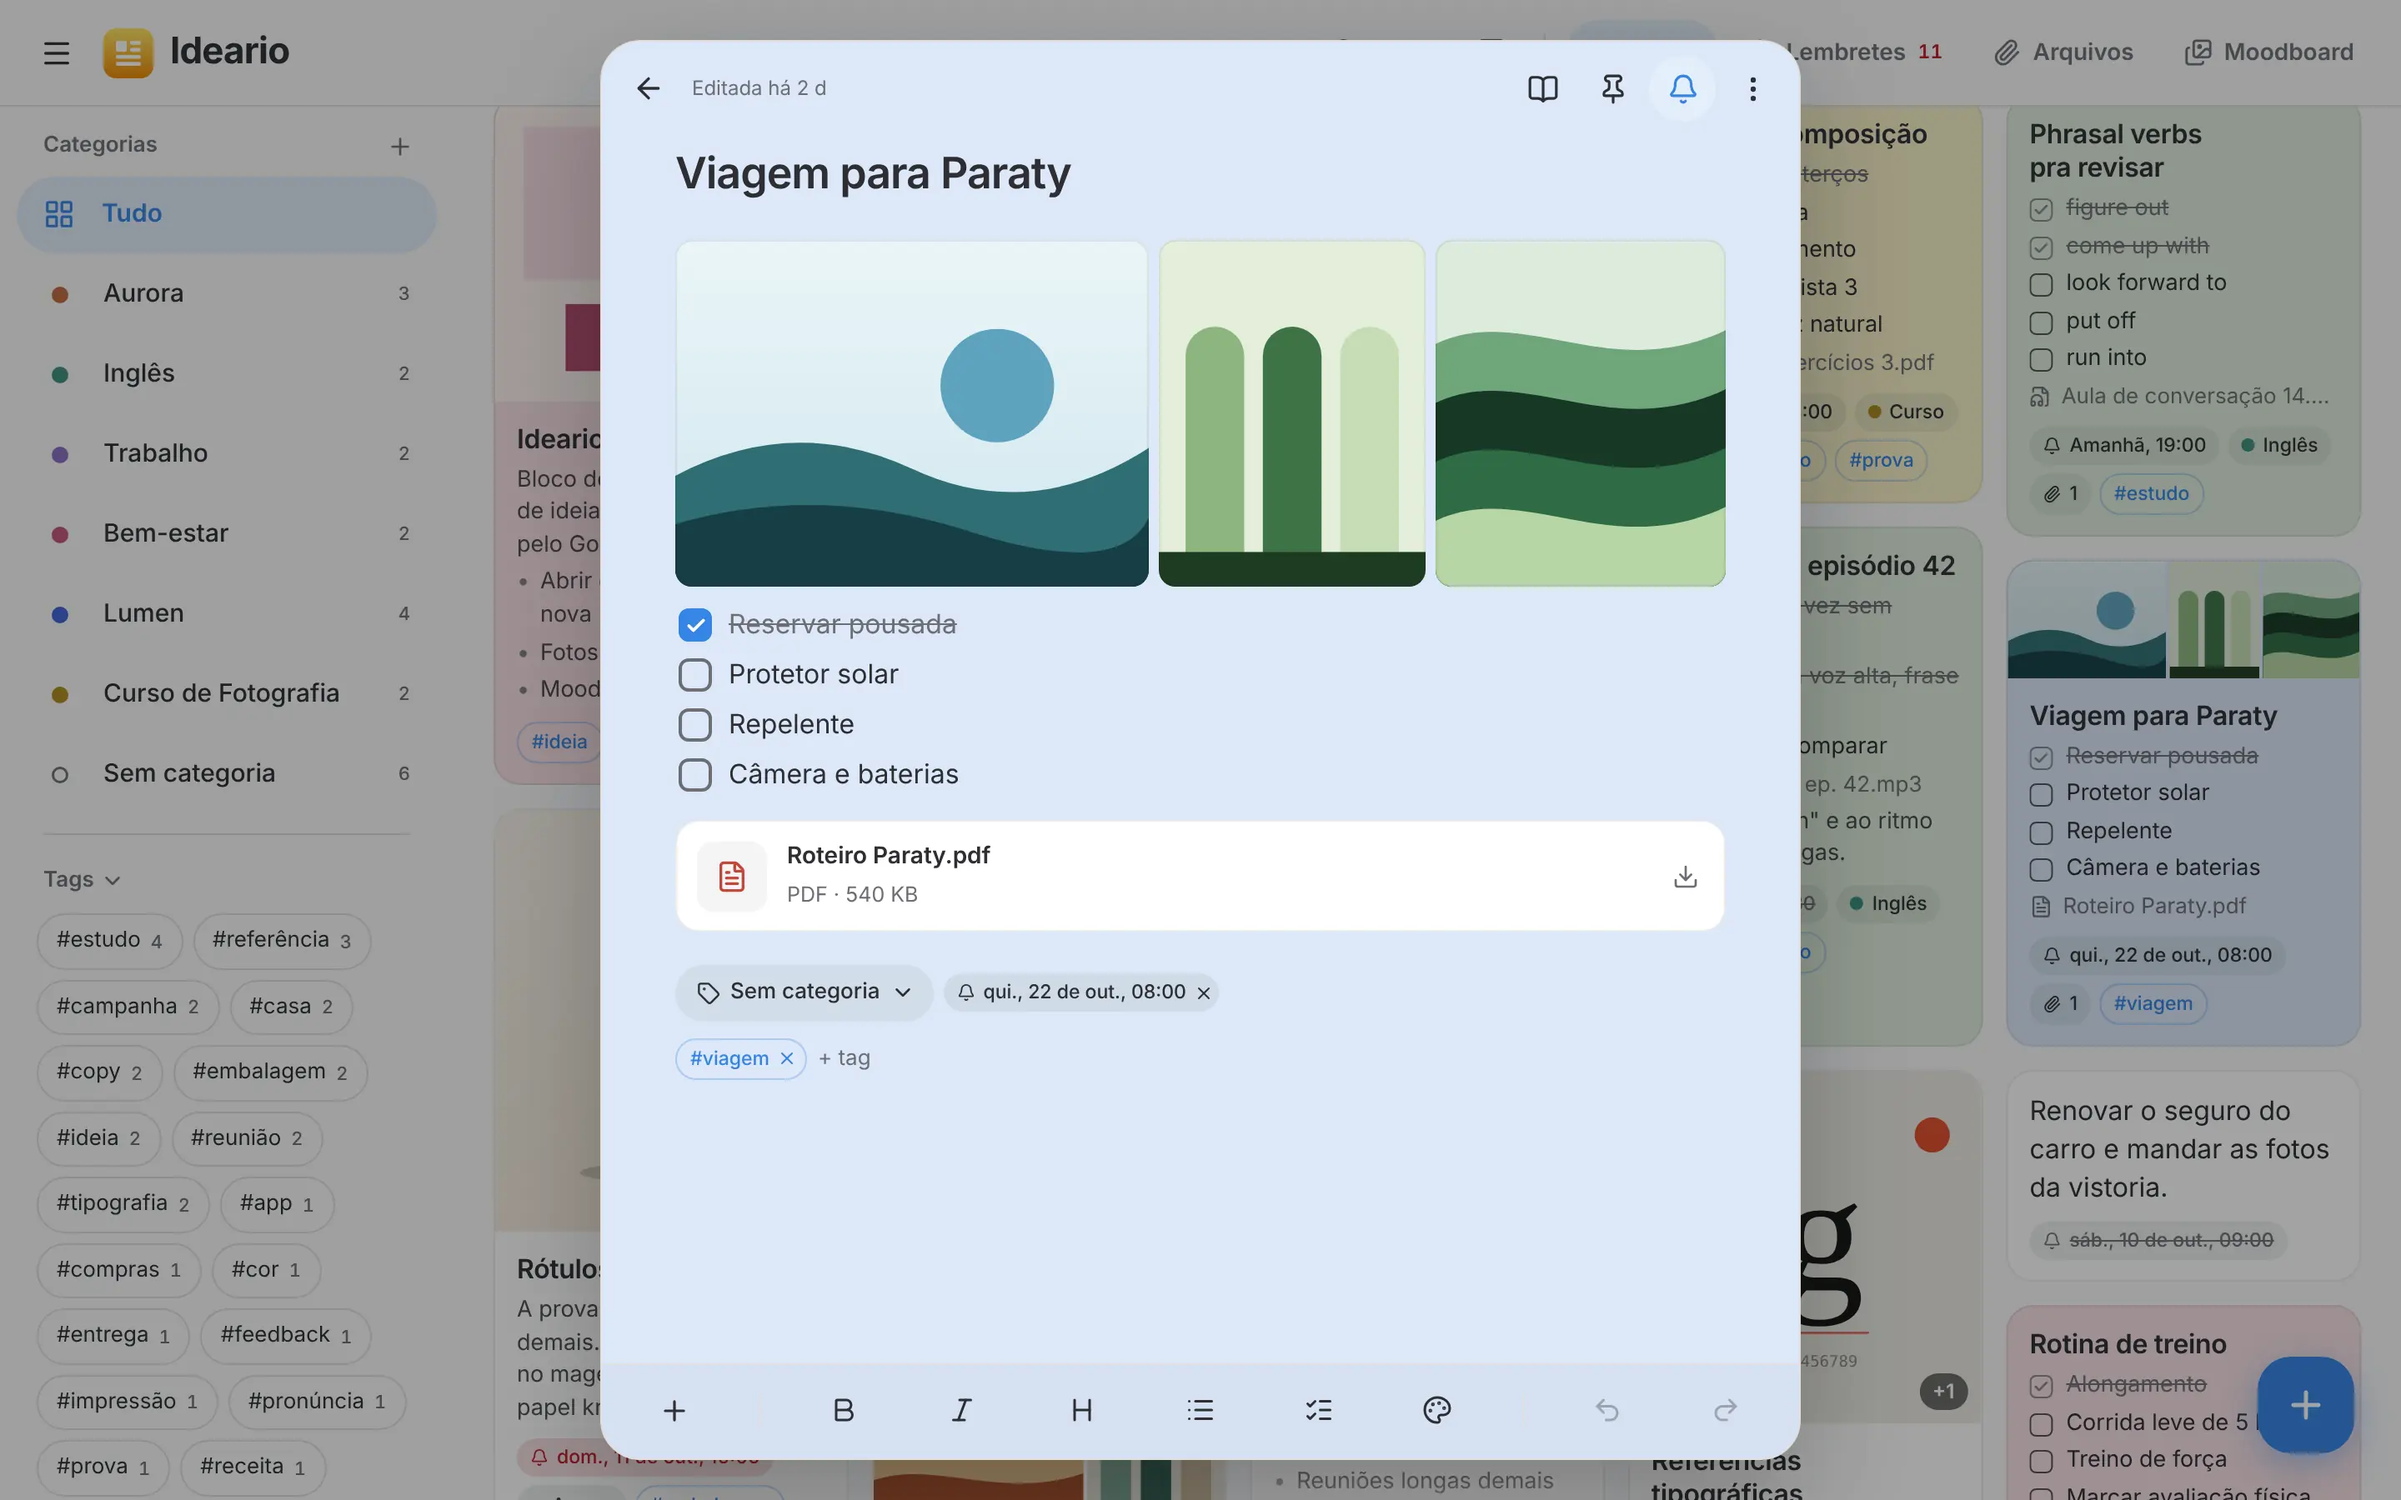
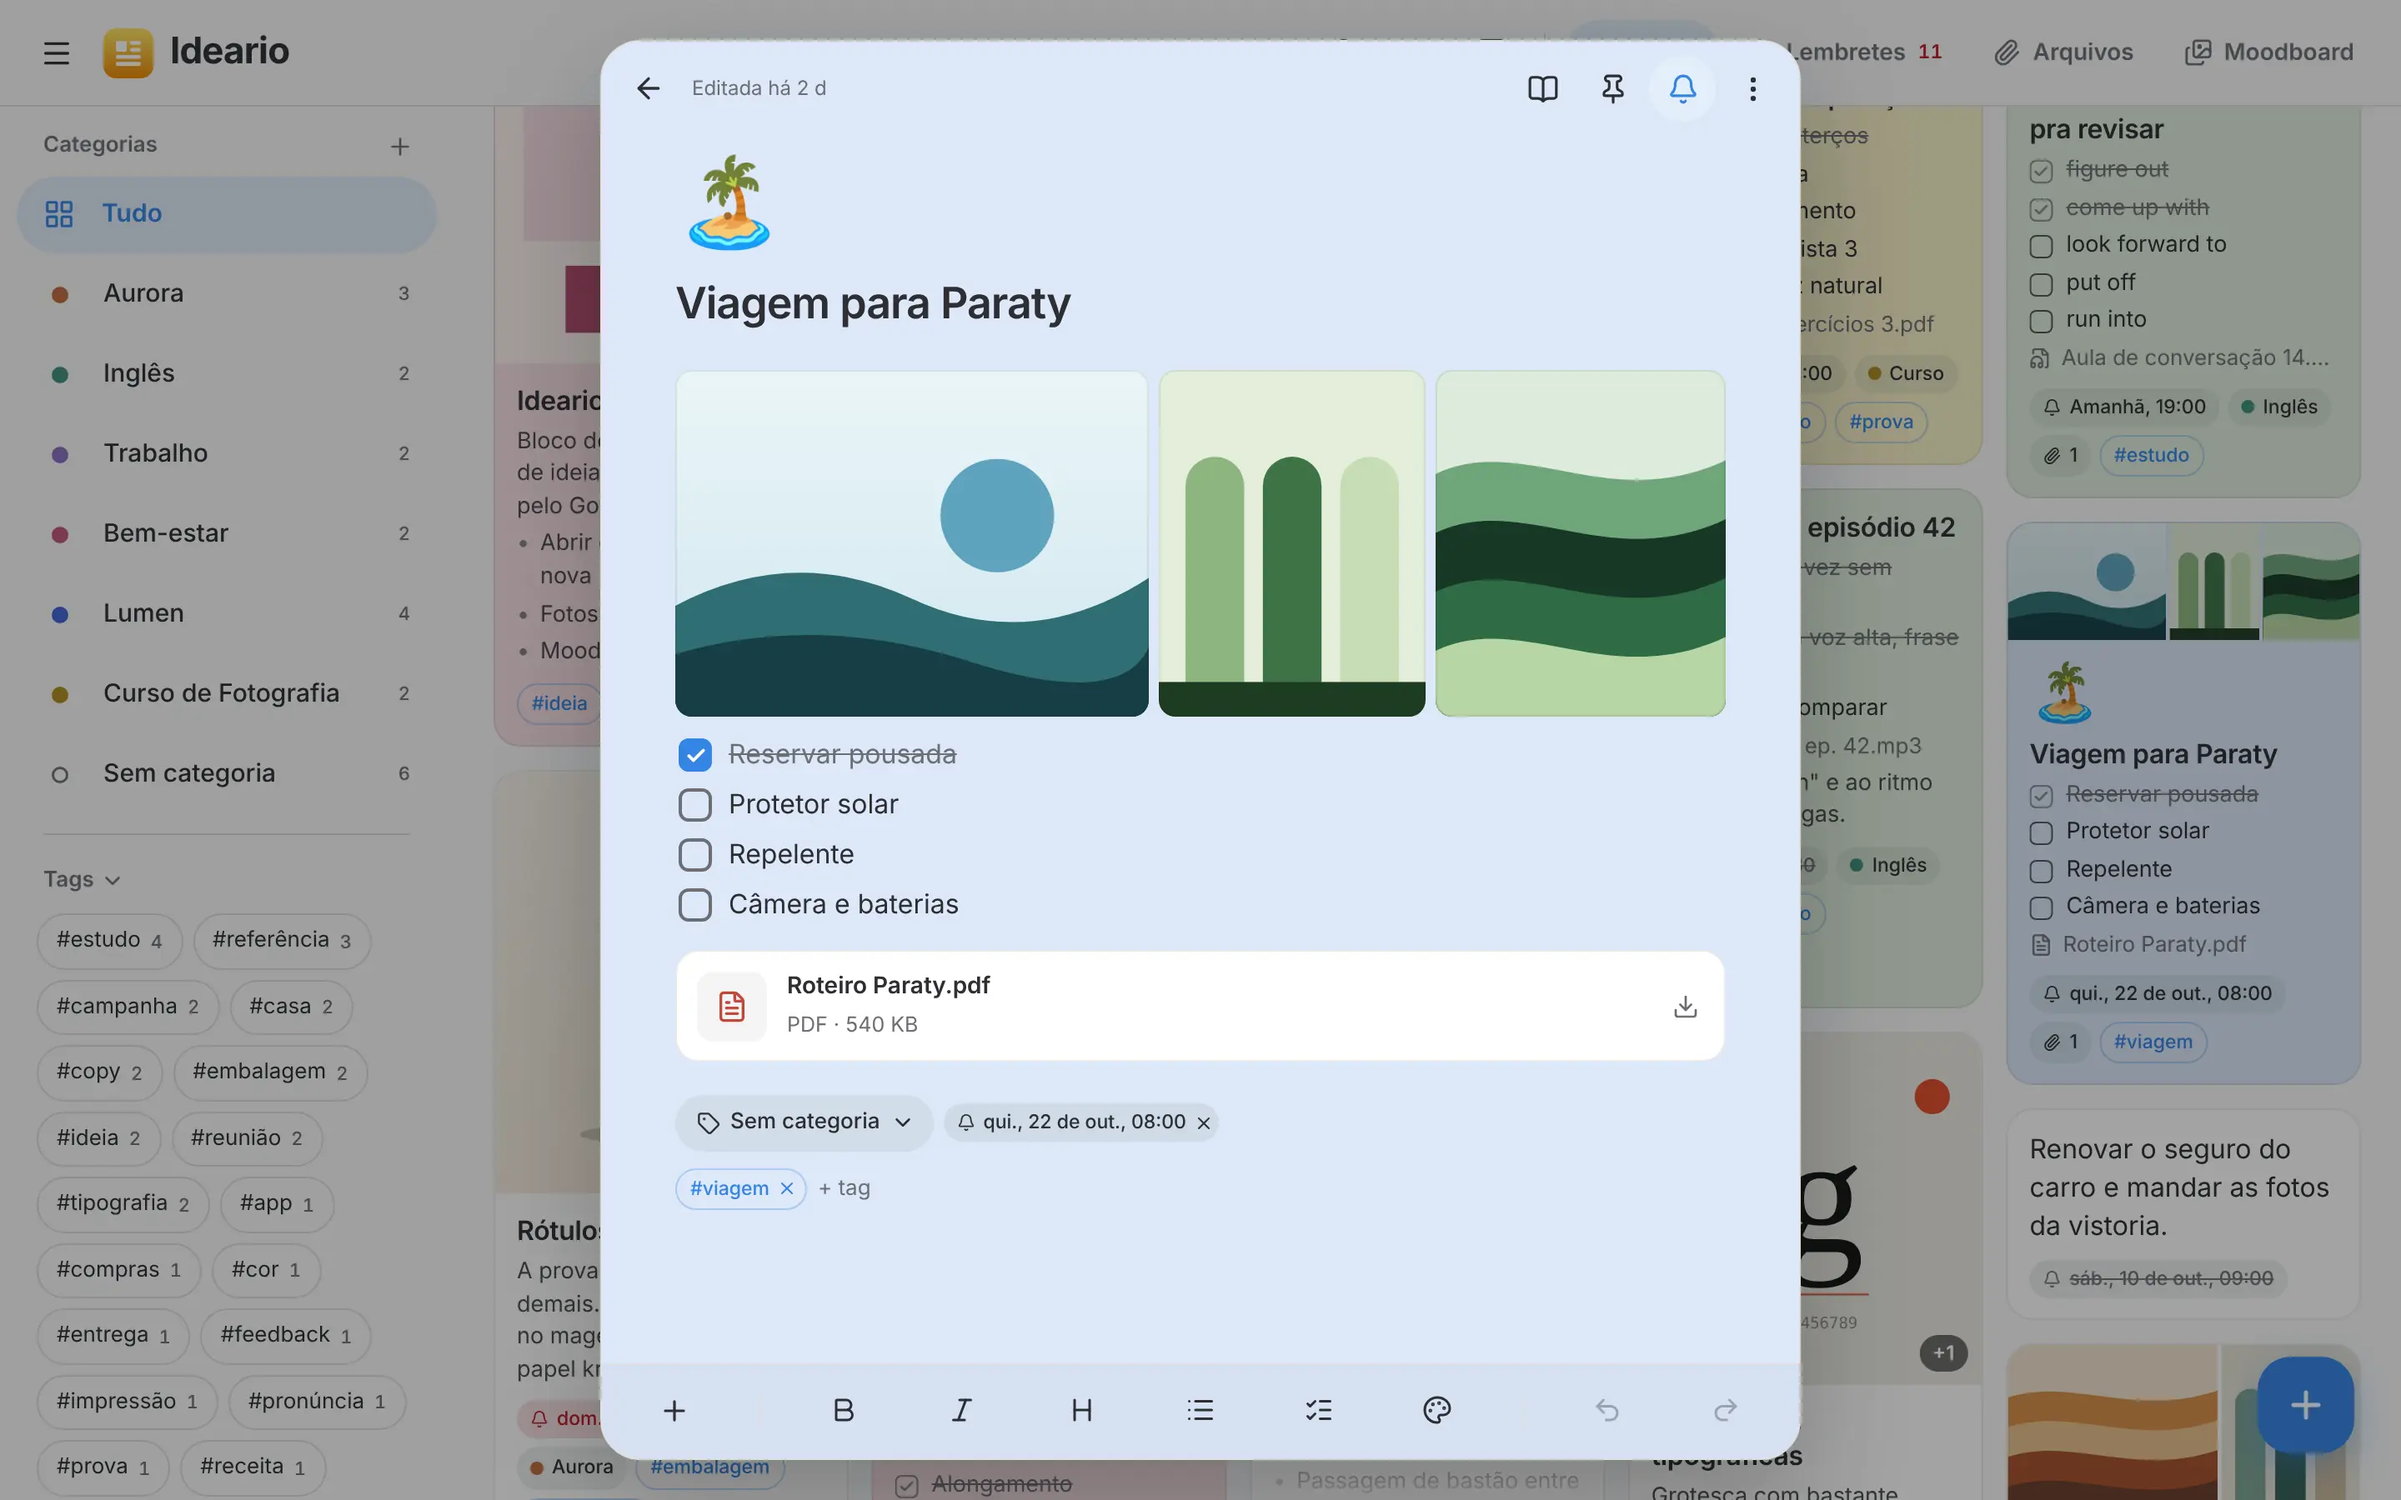
Site e README: emoji de capa nos recursos e prints refeitos
Claude-Session: https://claude.ai/code/session_013TSdK4xNnFcsVZkiv1gp7N

diff --git a/site/index.html b/site/index.html
@@ -42,6 +42,7 @@
       <li>Checklists com subitens, como no Keep</li>
       <li>Grave áudio ou tire foto sem sair da nota</li>
       <li>Cole um link e ele vira um cartão com título e imagem</li>
+      <li>Um emoji grande de capa para achar a nota de longe</li>
     </ul>
   </div>
   <img class="shot" src="/img/nota.webp" width="2880" height="1800" loading="lazy" alt="Nota aberta com três fotos lado a lado, um checklist e um PDF anexado">
@@ -118,7 +119,7 @@
   your notes on your computer. Optionally, it syncs between your computers through your own Google Drive, in a hidden
   app folder. There is no Ideario server and no data collection.</p>
   <ul>
-    <li>Notes with checklists, side-by-side photos, PDFs, audio, video and link cards</li>
+    <li>Notes with checklists, side-by-side photos, PDFs, audio, video, link cards and a big cover emoji</li>
     <li>Reminders with system notifications, snooze and repeat</li>
     <li>Moodboard of all your images, filterable by color</li>
     <li>Document mode and export to Markdown, HTML or PDF</li>

diff --git a/README.md b/README.md
@@ -30,6 +30,7 @@ arrasta para onde quiser.
 - Checklists com subitens, como no Keep
 - Grave áudio ou tire foto sem sair da nota
 - Cole um link e ele vira um cartão com título e imagem
+- Um emoji grande de capa para achar a nota de longe
 
 <img src="site/img/nota.webp" alt="Nota aberta com três fotos lado a lado, um checklist e um PDF anexado">
 
@@ -94,7 +95,7 @@ Ideario is a Google Keep–style notes app for Windows, macOS and Linux. It open
 your notes on your computer. Optionally, it syncs between your computers through your own Google Drive, in a hidden
 app folder. There is no Ideario server and no data collection.
 
-- Notes with checklists, side-by-side photos, PDFs, audio, video and link cards
+- Notes with checklists, side-by-side photos, PDFs, audio, video, link cards and a big cover emoji
 - Reminders with system notifications, snooze and repeat
 - Moodboard of all your images, filterable by color
 - Document mode and export to Markdown, HTML or PDF
